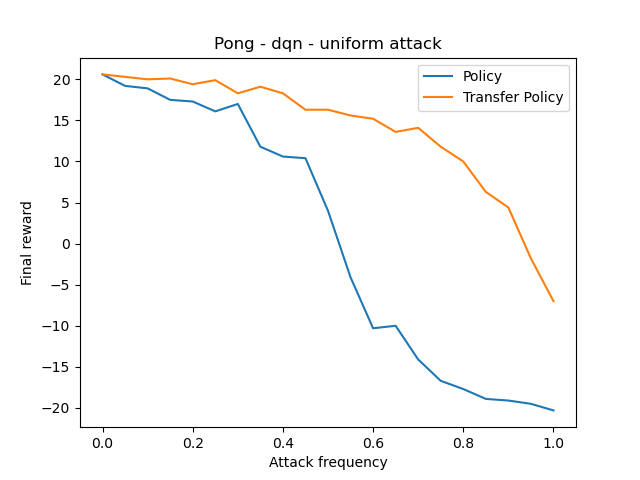
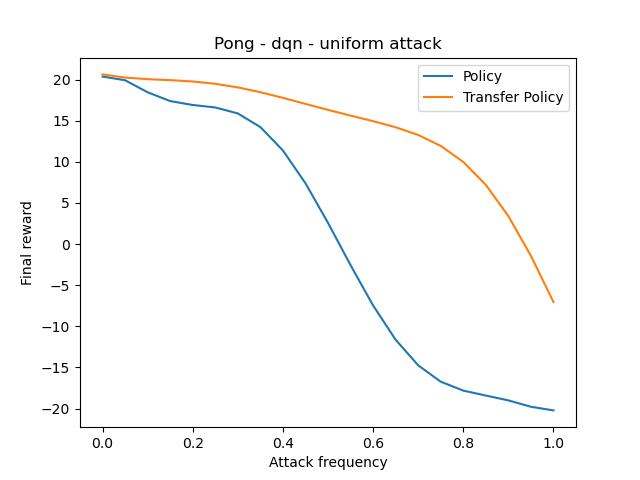
improved make charts code

diff --git a/make_chart_rew.py b/make_chart_rew.py
@@ -17,13 +17,15 @@ def smooth(list1, list2, smoothing=4):
     return list_2
 
 
-def limit_lists(list1, x_lists, y_lists):
+def limit_lists(limit_freq, x_lists, y_lists):
     """All the lists in x_lists will be in the same range of list1"""
-    limit = list1[-1]
     n_lists = len(x_lists)
     for i in range(n_lists):
-        x_lists[i] = ([l for l in x_lists[i] if l <= limit])
+        x_lists[i] = ([l for l in x_lists[i] if l <= limit_freq])
+        temp = y_lists[i][-1]
         y_lists[i] = y_lists[i][:len(x_lists[i])]
+        y_lists[i] = np.concatenate([y_lists[i], [temp]])
+        x_lists[i] = np.concatenate([x_lists[i], [limit_freq]])
     return x_lists, y_lists
 
 
@@ -37,11 +39,11 @@ if __name__ == '__main__':
     rl_attack = "critical_strategy_attack"  # strategically_timed_attack, uniform_attack, critical_strategy_attack
     has_atk_freq = 1
     has_n_attacks = 0
-    smoothing = 4
+    smoothing = 2
     input_file = [
         "log/" + task + "NoFrameskip-v4/" + model + "/" + rl_attack + "_" + img_attack + ".npy",
         "log/" + task + "NoFrameskip-v4/" + model + "/" + rl_attack + "_" + img_attack + "_transf_" + transfer_model + ".npy",
-        "log/" + task + "NoFrameskip-v4/" + model + "/" + rl_attack + "_" + "perfect_attack" + ".npy",
+        #"log/" + task + "NoFrameskip-v4/" + model + "/" + rl_attack + "_" + "perfect_attack" + ".npy",
                   ]
 
     n_lines = len(input_file)
@@ -62,24 +64,27 @@ if __name__ == '__main__':
 
     x1_lists = []
     y1_lists = []
+    min_x, min_index = np.inf, 0
     for i in range(n_lines):
         x[i], rewards[i] = sort_pivot(x[i], rewards[i])
         #print("Attack frequencies:", atk_freq[i])
         #print("Rewards:", rewards[i])
         #print("Number attacks:", n_attacks[i])
         rewards[i] = smooth(x[i], rewards[i], smoothing=smoothing)
-        if i > 0:
-            x1_lists.append(x[i])
-            y1_lists.append(rewards[i])
+        x1_lists.append(x[i])
+        y1_lists.append(rewards[i])
+        if i == n_lines-1 and x[i][-1] < min_x:
+            min_x = x[i][-1]
+            min_index = i
 
-    x_lists, y_lists = limit_lists(x[0], x1_lists, y1_lists)
-    for i in range(1, n_lines):
-        x[i] = x_lists[i-1]
-        rewards[i] = y_lists[i-1]
+    x_lists, y_lists = limit_lists(min_x, x1_lists, y1_lists)
+    for i in range(0, n_lines):
+        x[i] = x_lists[i]
+        rewards[i] = y_lists[i]
 
     plt.plot(x[0], rewards[0], label="Policy")
     plt.plot(x[1], rewards[1], label="Transfer Policy")
-    plt.plot(x[2], rewards[2], label="Perfect Attack")
+    #plt.plot(x[2], rewards[2], label="Perfect Attack")
 
     plt.legend(loc='upper right')
 

diff --git a/atari_critical_point_attack_benchmark.py b/atari_critical_point_attack_benchmark.py
@@ -37,6 +37,7 @@ def get_args():
     parser.add_argument('--max', type=int, default=4)
     parser.add_argument('--delta', type=float, default=0.)
     parser.add_argument('--repeat_act', type=int, default=2)
+    parser.add_argument('--full_search', default=False, action='store_true')
     args = parser.parse_known_args()[0]
     return args
 
@@ -76,7 +77,10 @@ def benchmark_adversarial_policy(args=get_args()):
     collector = critical_point_attack_collector(policy, env, obs_adv_atk,
                                                 perfect_attack=args.perfect_attack,
                                                 acts_mask=acts_mask,
-                                                device=args.device)
+                                                device=args.device,
+                                                full_search=args.full_search,
+                                                repeat_adv_act=args.repeat_act
+                                                )
     n_range = list(np.arange(args.min, args.max)) + [args.max]
     m_range = [0., 0.25, 0.5, 0.75, 1.]
     atk_freq = []

diff --git a/atari_critical_strategy_attack_benchmark.py b/atari_critical_strategy_attack_benchmark.py
@@ -77,7 +77,9 @@ def benchmark_adversarial_policy(args=get_args()):
     collector = critical_strategy_attack_collector(policy, env, obs_adv_atk,
                                                    perfect_attack=args.perfect_attack,
                                                    acts_mask=acts_mask,
-                                                   device=args.device)
+                                                   device=args.device,
+                                                   full_search=args.full_search,
+                                                   repeat_adv_act=args.repeat_act)
     n_range = list(np.arange(args.min, args.max)) + [args.max]
     m_range = [0., 0.25, 0.5, 0.75, 1.]
     atk_freq = []
